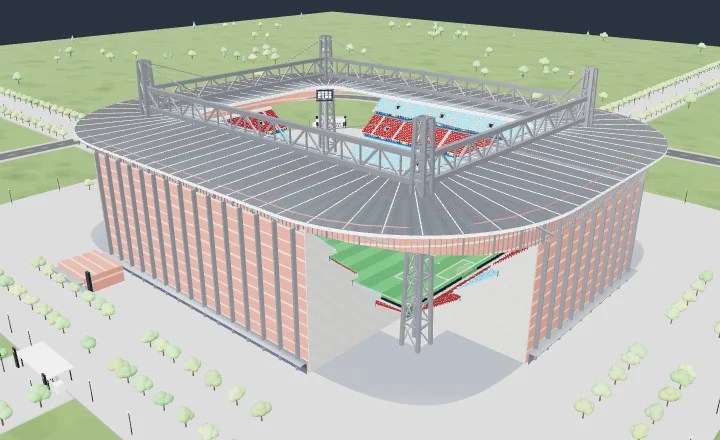
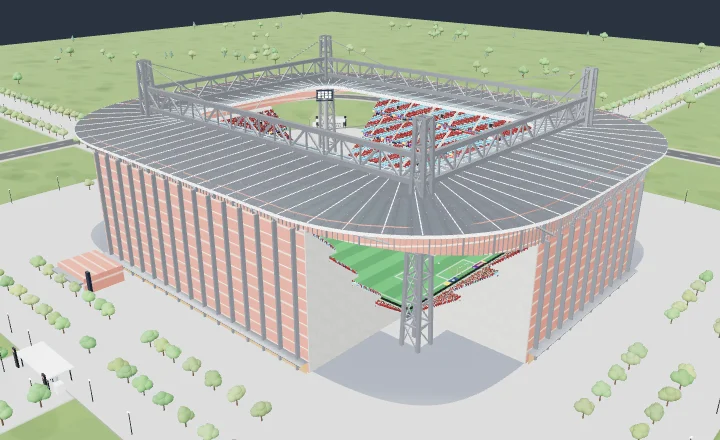
feat: gallery examples showcase the editor's range — 8 new presets, highlights on reference presets
- New: petal iris, giant arch with movable panels, broken ring with petals, desert mashrabiya,
  harbour prow with lighthouse/galleon/footbridge, heritage gables, saddle vault, tilted cable dome
- Reference presets get moods, crowds, tifos, press box, palms, solar roof, forecourt canopy…
- Capacity counts the seats a ring breach and upper-ring petal gaps take away
- 37 gallery thumbnails regenerated

diff --git a/src/stadium/presets.ts b/src/stadium/presets.ts
@@ -1857,7 +1857,145 @@ const REFERENCE_PRESETS: PresetDefinition[] = [
       withMaterials(doc, { pitchTurf: 'pro_synthetic', facade: 'glass_curtain' });
     }
   ),
+  derivedPreset(
+    'bowl_bowstring_60k',
+    'petal_iris_45k',
+    'Arène à Toit Iris',
+    'Pétales qui s’ouvrent en diaphragme · façade média lumineuse · écran en rive de toit',
+    'Arène Iris',
+    45000,
+    (doc) => {
+      doc.roof = { ...doc.roof, style: 'petal_iris', retractable: { openRatio: 0.55 } };
+      withMaterials(doc, { envelopeStyle: 'media_mesh', facadeGlowHex: '#7c3aed' });
+      doc.objects = [
+        {
+          id: 'obj-halo-iris',
+          type: 'halo_screen',
+          name: 'Écran en rive de toit',
+          position: [0, 30, 0],
+          rotation: [0, 0, 0],
+          scale: [1, 1, 1],
+          haloShape: 'roof_edge',
+          haloBandHeight: 5,
+        },
+      ];
+    }
+  ),
+  derivedPreset(
+    'bowl_bowstring_60k',
+    'giant_arch_90k',
+    'Grand Stade sous Arche Géante',
+    'Arche géante portant le toit · panneaux mobiles qui glissent pour ombrer la pelouse',
+    'Stade de l’Arche',
+    90000,
+    (doc) => {
+      doc.roof = { ...doc.roof, style: 'giant_arch', archMovablePanels: true, retractable: { openRatio: 0.5 } };
+      withMaterials(doc, { facade: 'glass_curtain', roof: 'polycarbonate_glass' });
+    }
+  ),
+  derivedPreset(
+    'bowl_bowstring_60k',
+    'broken_ring_33k',
+    'Anneau Brisé à Pétales',
+    'Anneau inférieur ouvert sur le parvis · anneau supérieur découpé en pétales · couronne plissée',
+    'Anneau Brisé',
+    null,
+    (doc) => {
+      doc.ringBreach = { side: 'north', width: 40 };
+      doc.upperRingGaps = { count: 16, width: 5 };
+      doc.roof = { ...doc.roof, style: 'pleated_crown' };
+      withMaterials(doc, { facade: 'weathered_corten', envelopeStyle: 'exposed_structure' });
+    }
+  ),
+  derivedPreset(
+    'bowl_bowstring_60k',
+    'desert_mashrabiya_44k',
+    'Stade Moucharabieh du Désert',
+    'Peau en tente percée d’un moucharabieh · voiles tendues sur mâts · douves',
+    'Stade du Désert',
+    44000,
+    (doc) => {
+      doc.roof = { ...doc.roof, style: 'mast_sails' };
+      withMaterials(doc, {
+        envelopeStyle: 'enveloping_skin',
+        envelopeProfile: 'tent',
+        facade: 'limestone_travertine',
+        facadePattern: 'mashrabiya',
+        facadeDepth: 1.4,
+      });
+    }
+  ),
+  derivedPreset(
+    'bowl_bowstring_60k',
+    'harbour_prow_32k',
+    'Stade du Port en Proue',
+    'Coque en proue face à l’eau · quai, passerelle, phare et galion',
+    'Stade du Port',
+    32000,
+    (doc) => {
+      doc.roof = { ...doc.roof, style: 'prow_shell' };
+      withMaterials(doc, { facade: 'white_composite_panels' });
+      doc.site = { ...doc.site, setting: 'esplanade', water: 'waterfront' };
+      doc.objects = [
+        landmark('obj-lighthouse-port', 'lighthouse', 'Phare du port', [175, 0, -95]),
+        landmark('obj-galleon-port', 'galleon', 'Galion amarré', [200, 0, 40], Math.PI / 2),
+        landmark('obj-bridge-port', 'footbridge', 'Passerelle du quai', [0, 0, 175]),
+      ];
+    }
+  ),
+  derivedPreset(
+    'traditional_four_stands_42k',
+    'heritage_gable_24k',
+    'Vieux Stade à Pignons',
+    'Toits à pignon d’époque · escaliers extérieurs · balcons en treillis croisé · brique',
+    'Vieux Stade à Pignons',
+    24000,
+    (doc) => {
+      doc.roof = { ...doc.roof, style: 'historic_gable' };
+      withMaterials(doc, { facade: 'heritage_brick' });
+      for (const side of ['east', 'west'] as const) {
+        doc.stands[side] = { ...doc.stands[side], envelopeStyleOverride: 'external_stairs', fasciaStyle: 'criss_cross' };
+      }
+    }
+  ),
+  derivedPreset(
+    'bowl_bowstring_60k',
+    'saddle_vault_50k',
+    'Cuvette en Selle et Toit Végétalisé',
+    'Gradins en selle de cheval · voûte en selle plantée · façade en strates horizontales',
+    'Stade en Selle',
+    50000,
+    (doc) => {
+      doc.shape = 'saddle_bowl';
+      doc.roof = { ...doc.roof, style: 'saddle_vault' };
+      withMaterials(doc, { envelopeStyle: 'horizontal_strata', roof: 'green_roof', facade: 'limestone_travertine' });
+    }
+  ),
+  derivedPreset(
+    'bowl_bowstring_60k',
+    'tilted_cable_dome_40k',
+    'Cuvette Inclinée sous Dôme à Câbles',
+    'Cuvette basculée vers la tribune d’honneur · dôme à câbles · façade tressée',
+    'Dôme à Câbles',
+    40000,
+    (doc) => {
+      doc.shape = 'tilted_bowl';
+      doc.roof = { ...doc.roof, style: 'cable_dome' };
+      withMaterials(doc, { facadePattern: 'woven_basket', facade: 'woven_glassfibre_mesh', roof: 'ptfe_membrane' });
+    }
+  ),
 ];
+
+/** A landmark object (lighthouse, galleon, footbridge…) standing on the site at `position`. */
+function landmark(
+  id: string,
+  type: 'lighthouse' | 'galleon' | 'footbridge' | 'tower',
+  name: string,
+  position: [number, number, number],
+  yaw = 0
+): StadiumDocument['objects'][number] {
+  return { id, type, name, position, rotation: [0, yaw, 0], scale: [1, 1, 1] };
+}
 
 export const STADIUM_PRESETS: PresetDefinition[] = [...BASE_PRESETS, ...REFERENCE_PRESETS];
 
@@ -2012,6 +2150,106 @@ const PRESET_HIGHLIGHTS: Record<string, (doc: StadiumDocument) => void> = {
     doc.roof.enclosureGlazed = true;
     doc.pitch.hasMoat = true;
     doc.pitch.adBoardTheme = 'equipe_de_france';
+  },
+  // Reference typologies: each also shows a mood or an option the base templates leave out.
+  sliding_roof_arena_50k: (doc) => {
+    doc.lighting = 'night';
+    withMaterials(doc, { crowd: true, crowdAttendance: 0.9, facadeGlowHex: '#0ea5e9' });
+    doc.pitch.adBoardTheme = 'mls_usa';
+  },
+  stayed_masts_80k: (doc) => {
+    doc.site = { ...doc.site, setting: 'park', water: 'moat' };
+    withMaterials(doc, { crowd: true, crowdAttendance: 0.8 });
+    doc.pitch.adBoardTheme = 'world_cup';
+  },
+  concrete_portals_48k: (doc) => {
+    doc.stands.west = { ...doc.stands.west, pressBox: true, pressBoxTier: 1, pressBoxRows: 5, pressBoxLength: 40, dugouts: true };
+    doc.seatTierStyles = [{ pattern: 'gradient', color: '#1e3a8a', accent: '#60a5fa' }];
+    doc.lighting = 'dusk';
+  },
+  timber_lattice_36k: (doc) => {
+    doc.site = { ...doc.site, setting: 'park', mound: 4 };
+    doc.lighting = 'dusk';
+  },
+  lace_canopy_20k: (doc) => {
+    doc.lighting = 'night';
+    withMaterials(doc, { facadeGlowHex: '#f59e0b', facadeBaseGlow: true });
+    doc.site = { ...doc.site, setting: 'esplanade', water: 'waterfront' };
+  },
+  corner_girders_38k: (doc) => {
+    doc.stands.north = { ...doc.stands.north, tifo: true, banners: true, seatStyle: { pattern: 'lettering', text: 'RC' } };
+    withMaterials(doc, { crowd: true, crowdAttendance: 0.95 });
+    doc.lighting = 'night';
+  },
+  space_frame_crown_67k: (doc) => {
+    doc.roof.skylightMode = 'pitch_ring';
+    doc.roof.skylightRatio = 0.3;
+    withMaterials(doc, { facade: 'perforated_red_metal', facadePattern: 'honeycomb' });
+  },
+  counterweight_trusses_59k: (doc) => {
+    withMaterials(doc, { roof: 'solar_pv_panels' });
+    doc.roof.forecourtCanopy = { side: 'south', depth: 20 };
+    doc.site = { ...doc.site, setting: 'esplanade', entrances: true };
+  },
+  column_forest_42k: (doc) => {
+    withMaterials(doc, { colonnadeShape: 'palm' });
+    doc.lighting = 'dusk';
+  },
+  closed_scales_arena_30k: (doc) => {
+    doc.lighting = 'night';
+    withMaterials(doc, { crowd: true, crowdAttendance: 0.9 });
+    doc.stands.south = { ...doc.stands.south, vipLoges: true, vipStoreys: 3 };
+  },
+  inclined_mast_56k: (doc) => {
+    doc.site = { ...doc.site, setting: 'park' };
+    doc.lighting = 'night';
+    withMaterials(doc, { crowd: true, crowdAttendance: 0.85 });
+  },
+  stacking_roof_50k: (doc) => {
+    for (const side of ALL_SIDES) {
+      doc.stands[side] = { ...doc.stands[side], vomitoryLevels: 2, vomitoryStaggered: true };
+    }
+    withMaterials(doc, { facadePattern: 'voronoi', facade: 'black_zinc_cladding' });
+  },
+  gridiron_arches_70k: (doc) => {
+    doc.lighting = 'night';
+    withMaterials(doc, { crowd: true, crowdAttendance: 0.92 });
+    doc.site = { ...doc.site, setting: 'parking' };
+  },
+  petal_iris_45k: (doc) => {
+    doc.lighting = 'night';
+    withMaterials(doc, { crowd: true, crowdAttendance: 0.9 });
+    doc.pitch.adBoardTheme = 'champions_league';
+  },
+  giant_arch_90k: (doc) => {
+    doc.lighting = 'dusk';
+    withMaterials(doc, { crowd: true, crowdAttendance: 0.95 });
+    doc.site = { ...doc.site, setting: 'esplanade', entrances: true };
+    doc.pitch.adBoardTheme = 'premier_league';
+  },
+  broken_ring_33k: (doc) => {
+    doc.site = { ...doc.site, setting: 'esplanade', entrances: true };
+    doc.stands.north = { ...doc.stands.north, tifo: true, banners: true };
+    withMaterials(doc, { crowd: true, crowdAttendance: 0.9 });
+  },
+  desert_mashrabiya_44k: (doc) => {
+    doc.lighting = 'dusk';
+    doc.site = { ...doc.site, setting: 'esplanade', water: 'moat' };
+  },
+  harbour_prow_32k: (doc) => {
+    doc.lighting = 'dusk';
+  },
+  heritage_gable_24k: (doc) => {
+    doc.site = { ...doc.site, setting: 'urban', perimeterFence: true };
+    doc.pitch.grassPattern = 'checker';
+    doc.stands.south = { ...doc.stands.south, pressGantry: true, dugouts: true };
+  },
+  saddle_vault_50k: (doc) => {
+    doc.site = { ...doc.site, setting: 'park' };
+  },
+  tilted_cable_dome_40k: (doc) => {
+    doc.lighting = 'night';
+    withMaterials(doc, { facadeGlowHex: '#10b981' });
   },
 };
 

diff --git a/src/stadium/capacity.ts b/src/stadium/capacity.ts
@@ -1,4 +1,5 @@
 import {
+  bowlSweepSegments,
   buildShapeBowlRing,
   computeRectangularCornerLayout,
   RectangularCornerLayout,
@@ -13,7 +14,9 @@ import {
   isContinuousBowlShape,
   resolveAllCorners,
   resolveFloodlightRig,
+  resolveRingBreach,
   resolveStandVomitories,
+  resolveUpperRingGaps,
   vomitoryLevelsOfTier,
   RoofStyle,
   SeatingType,
@@ -376,6 +379,16 @@ export function calculateStandMetrics(
 
   let totalRowSeats = 0;
 
+  // A ring breach cuts every row of its stand over its width; petal gaps cut the upper tiers all
+  // round. Both are laid out along the ring's front perimeter, as in the 3D bowl sweep.
+  const ringPerimeter = bowlRing?.perimeter ?? 0;
+  // The sweep drops every quad touching a slice inside a cut, so each cut runs one slice wider.
+  const sliceStep = ringPerimeter / bowlSweepSegments(doc.shape);
+  const breach = ringPerimeter > 0 ? resolveRingBreach(doc) : null;
+  const breachLen = breach?.side === side ? breach.width + sliceStep : 0;
+  const petals = ringPerimeter > 0 ? resolveUpperRingGaps(doc) : null;
+  const petalShare = petals ? Math.min(1, (petals.count * (petals.width + sliceStep)) / ringPerimeter) : 0;
+
   for (const row of section.rows) {
     // Seats sit just past the middle of their tread, as in the 3D build.
     const curOutwardD = row.d + stand.rowDepth * 0.52;
@@ -389,7 +402,8 @@ export function calculateStandMetrics(
       straightFrontSpan +
       cornerQuadrants * (innerCornerArcPerQuadrant + cornerDelta);
 
-    const netSeatLen = Math.max(0, (rowArcSpan - totalAisleWidth) * 0.975);
+    const keptSpan = (rowArcSpan - breachLen) * (row.tierIdx > 0 ? 1 - petalShare : 1);
+    const netSeatLen = Math.max(0, (keptSpan - totalAisleWidth) * 0.975);
     const baseRowCount = Math.floor(netSeatLen / safeSeatWidth);
 
     const standingDensityFactor =

diff --git a/src/stadium/__tests__/europeanStadiumFeatures.test.ts b/src/stadium/__tests__/europeanStadiumFeatures.test.ts
@@ -1,6 +1,7 @@
 import { describe, expect, it } from 'vitest';
 import * as THREE from 'three';
 import { buildStadiumSceneGraph } from '../buildStadiumScene';
+import { calculateStadiumMetrics } from '../capacity';
 import { createPresetDocument } from '../presets';
 import { mosaicColourIndex } from '../parametricFacade';
 import { resolveSeats3d, resolveSuspendedMasts, type StadiumDocument } from '../schema';
@@ -110,5 +111,18 @@ describe('features from the European stadium analysis', () => {
     delete doc.ringBreach;
     doc.upperRingGaps = { count: 26, width: 6 };
     expect(triangles(scene(doc))).not.toBe(whole);
+  });
+
+  it('counts the seats a ring breach and petal gaps take away', () => {
+    const doc = createPresetDocument('bowl_bowstring_60k');
+    const whole = calculateStadiumMetrics(doc);
+    doc.ringBreach = { side: 'west', width: 30 };
+    const breached = calculateStadiumMetrics(doc);
+    expect(breached.totalCapacity).toBeLessThan(whole.totalCapacity);
+    // Only the breached stand loses seats.
+    expect(breached.stands.east.capacity).toBe(whole.stands.east.capacity);
+    delete doc.ringBreach;
+    doc.upperRingGaps = { count: 26, width: 6 };
+    expect(calculateStadiumMetrics(doc).totalCapacity).toBeLessThan(whole.totalCapacity * 0.9);
   });
 });

diff --git a/src/stadium/generateStand.ts b/src/stadium/generateStand.ts
@@ -5,6 +5,7 @@ import {
   bowlSideWeights,
   computeRectangularCornerLayout,
   CornerQuadrantId,
+  bowlSweepSegments,
   getBowlArcRange,
   isOnRingCorner,
   RectangularCornerSpec,
@@ -3087,7 +3088,7 @@ function buildModernBowlSweep(
   const trackOffsets = getTrackRadialOffset(doc);
   const sunkenDepth = getEffectiveSunkenDepth(doc);
 
-  const segments = doc.shape === 'octagonal_arena' ? 160 : 144;
+  const segments = bowlSweepSegments(doc.shape);
   const profiles: Record<StandSide, StandProfile> = {
     east: buildStandProfilePoints(doc.stands.east, isHollow),
     south: buildStandProfilePoints(doc.stands.south, isHollow),

diff --git a/src/stadium/bowlRing.ts b/src/stadium/bowlRing.ts
@@ -572,6 +572,11 @@ const ARC_STANDS_SIDE_BOW = 0.09;
 const ARC_STANDS_END_BOW = 0.26;
 
 /** Smallest gap between the pitch edge and the front of the stands when there is no track (m). */
+/** Slices the bowl sweep lays around a full ring; a cut through the bowl drops whole slices. */
+export function bowlSweepSegments(shape: StadiumShape): number {
+  return shape === 'octagonal_arena' ? 160 : 144;
+}
+
 export const MIN_PITCH_SETBACK = 4.5;
 
 /** Half-length and half-width (m) of a cricket ground's outfield, inside its boundary rope. */

diff --git a/src/stadium/__tests__/stadiumEngine.test.ts b/src/stadium/__tests__/stadiumEngine.test.ts
@@ -403,7 +403,7 @@ describe('StadiumForge 11 Morphologies, 15 Roofs, 4 Envelopes & Full-Height Kop 
     'announces the capacity the 3D stands actually seat',
     () => {
       ensureCanvasMock();
-      expect(STADIUM_PRESETS.length).toBe(29);
+      expect(STADIUM_PRESETS.length).toBe(37);
       const off: string[] = [];
       for (const preset of STADIUM_PRESETS) {
         const doc = createPresetDocument(preset.id);
